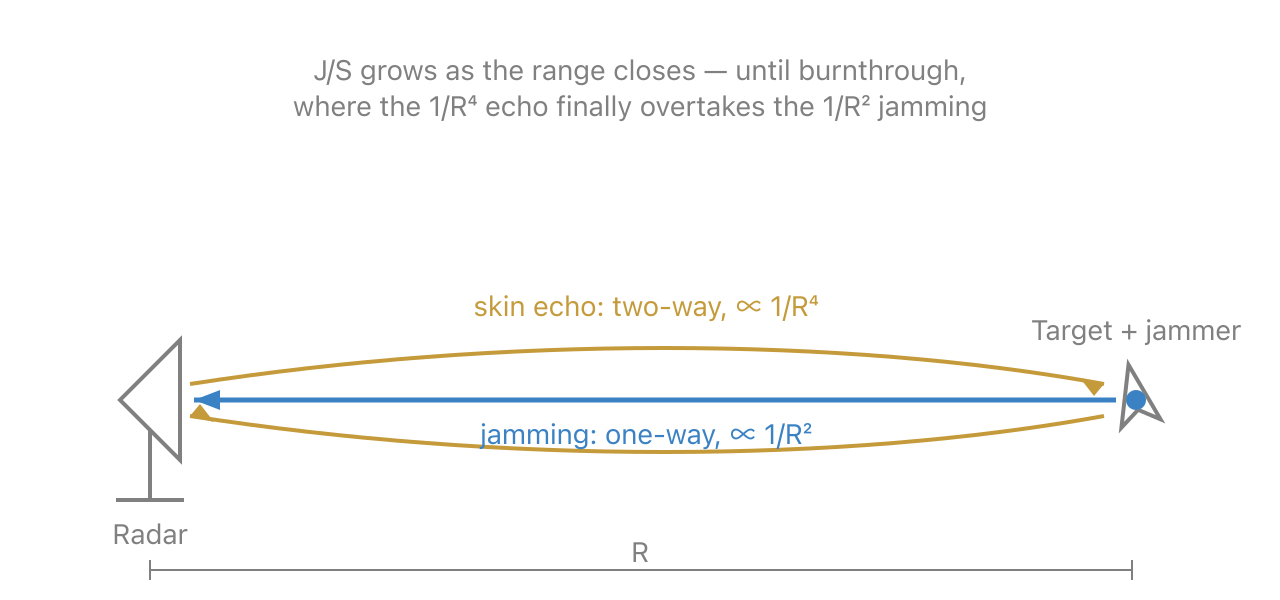
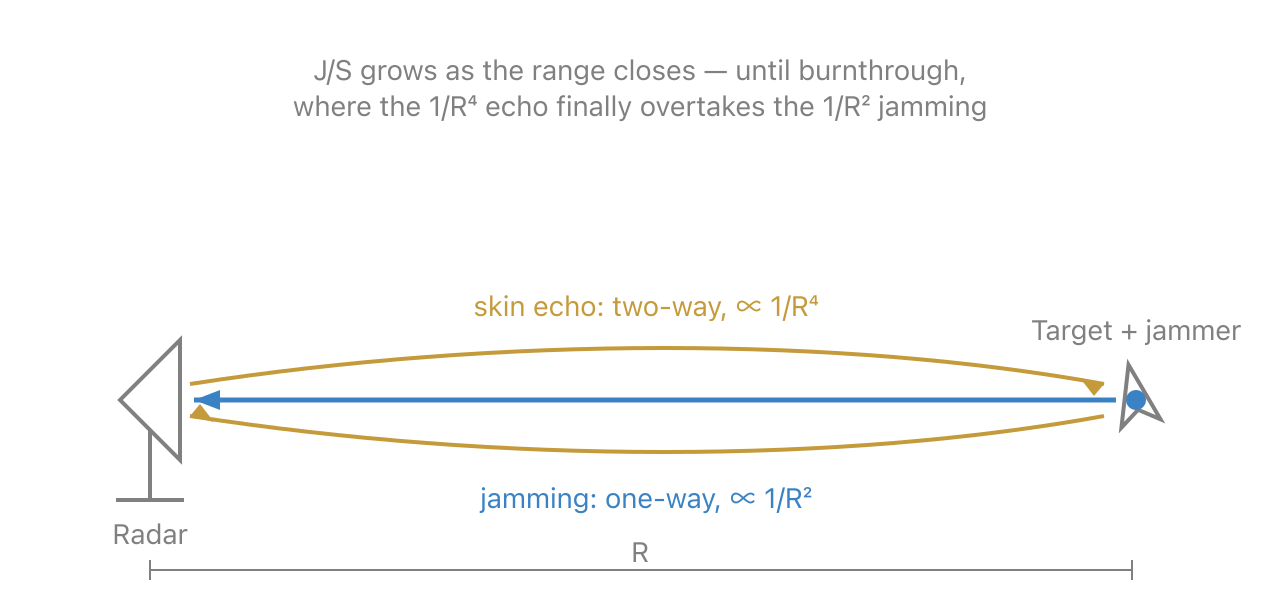
fix(jamming): macOS UI-pass fixes — Comms Jamming titles, diagram labels (#88)
Found by driving the macOS app: the Comms Jamming pane still titled
itself "Jamming" (macOS and WinUI; WinUI home card now split into Comms
and Radar Jamming). The stand-off diagram's R_J subscript used U+2C7C,
which the render font lacks; both subscripts now use tspans like the
comms diagram. Both radar diagrams' jamming labels moved off their
lines.

Changed region(s): [[0.375, 0.81, 0.625, 0.87], [0.375, 0.69, 0.625, 0.75]]

diff --git a/frontend/windows/ewcalc-winui/ewcalc-winui/Views/HomePage.xaml b/frontend/windows/ewcalc-winui/ewcalc-winui/Views/HomePage.xaml
@@ -50,8 +50,19 @@
                     BorderBrush="{ThemeResource CardStrokeColorDefaultBrush}"
                     BorderThickness="1" CornerRadius="8" Padding="16">
                 <StackPanel Spacing="4">
-                    <TextBlock Text="Jamming" FontWeight="SemiBold" />
+                    <TextBlock Text="Comms Jamming" FontWeight="SemiBold" />
                     <TextBlock Text="J/S ratio · Burnthrough range · Partial-band optimum BW"
+                               Style="{ThemeResource CaptionTextBlockStyle}"
+                               Foreground="{ThemeResource TextFillColorSecondaryBrush}" />
+                </StackPanel>
+            </Border>
+
+            <Border Background="{ThemeResource CardBackgroundFillColorDefaultBrush}"
+                    BorderBrush="{ThemeResource CardStrokeColorDefaultBrush}"
+                    BorderThickness="1" CornerRadius="8" Padding="16">
+                <StackPanel Spacing="4">
+                    <TextBlock Text="Radar Jamming" FontWeight="SemiBold" />
+                    <TextBlock Text="Self-protection and stand-off J/S · Burnthrough range"
                                Style="{ThemeResource CaptionTextBlockStyle}"
                                Foreground="{ThemeResource TextFillColorSecondaryBrush}" />
                 </StackPanel>

diff --git a/frontend/windows/ewcalc-winui/ewcalc-winui/Views/JammingPage.xaml b/frontend/windows/ewcalc-winui/ewcalc-winui/Views/JammingPage.xaml
@@ -19,7 +19,7 @@
                     <ColumnDefinition Width="Auto" />
                 </Grid.ColumnDefinitions>
                 <StackPanel Grid.Column="0">
-                    <TextBlock Text="Jamming" Style="{ThemeResource TitleTextBlockStyle}" />
+                    <TextBlock Text="Comms Jamming" Style="{ThemeResource TitleTextBlockStyle}" />
                     <TextBlock Text="J/S ratio · Burnthrough · Partial-band optimum bandwidth"
                                Style="{ThemeResource CaptionTextBlockStyle}"
                                Foreground="{ThemeResource TextFillColorSecondaryBrush}" />

diff --git a/frontend/macos/app/Views/JammingView.swift b/frontend/macos/app/Views/JammingView.swift
@@ -125,7 +125,7 @@ struct JammingView: View {
             DiagramSection(names: ["jamming-comms"])
         }
         .formStyle(.grouped)
-        .navigationTitle("Jamming")
+        .navigationTitle("Comms Jamming")
         .toolbar {
             ToolbarItem(placement: .primaryAction) {
                 CopyResultsButton(rows: resultsForCopy)

diff --git a/PLAN.md b/PLAN.md
@@ -333,6 +333,18 @@ Open milestones are fully itemized here since they reflect actionable state.
     reference page's Comms Jamming section.
     Selector note: geometry is a segmented picker (macOS) / combo box
     (Linux, WinUI) — no prior pane had an int-enum selector.
+    VERIFIED macOS 2026-10-11 (clean Release build, app driven via AX
+    scripting + screencapture): both modes compute the presenter-test
+    values, stand-off rows hide in SPJ mode, Geometry diagram swaps with
+    the mode, Comms Jamming shows only jamming-comms. Fixed from the pass:
+    stale "Jamming" pane title (macOS + WinUI; WinUI home card split into
+    Comms/Radar Jamming), stand-off diagram R_T/R_J subscripts (U+2C7C has
+    no glyph in the render font) and both radar diagrams' jamming labels
+    clipping their lines.
+    CI: dispatch runs on dev/v1.3.0 all green after the Linux Qt 6.2 fix
+    (eb7e600). A notary 403 "agreement missing or expired" right after
+    accepting Apple's agreement is propagation lag — it cleared on its own.
+    REMAINING for #88: Linux and Windows UI passes.
 
 ## GitHub Issues Without Milestone [DERIVED]
 Same leaner convention as milestones above: closed items are a count only
